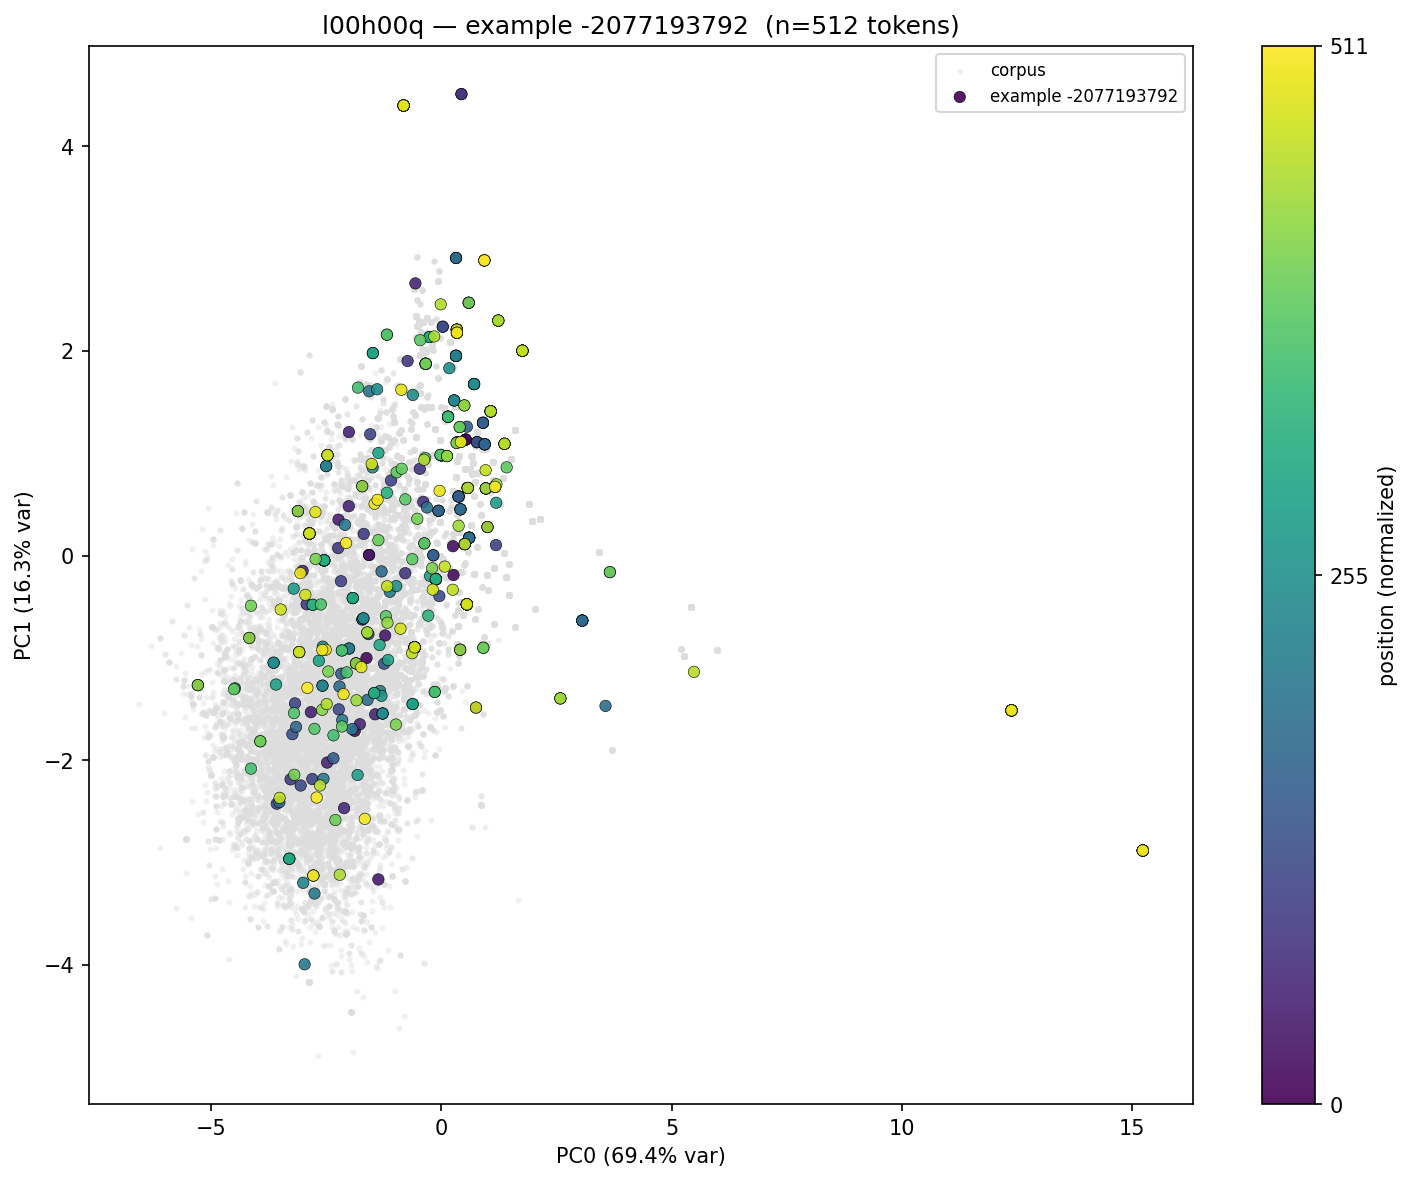
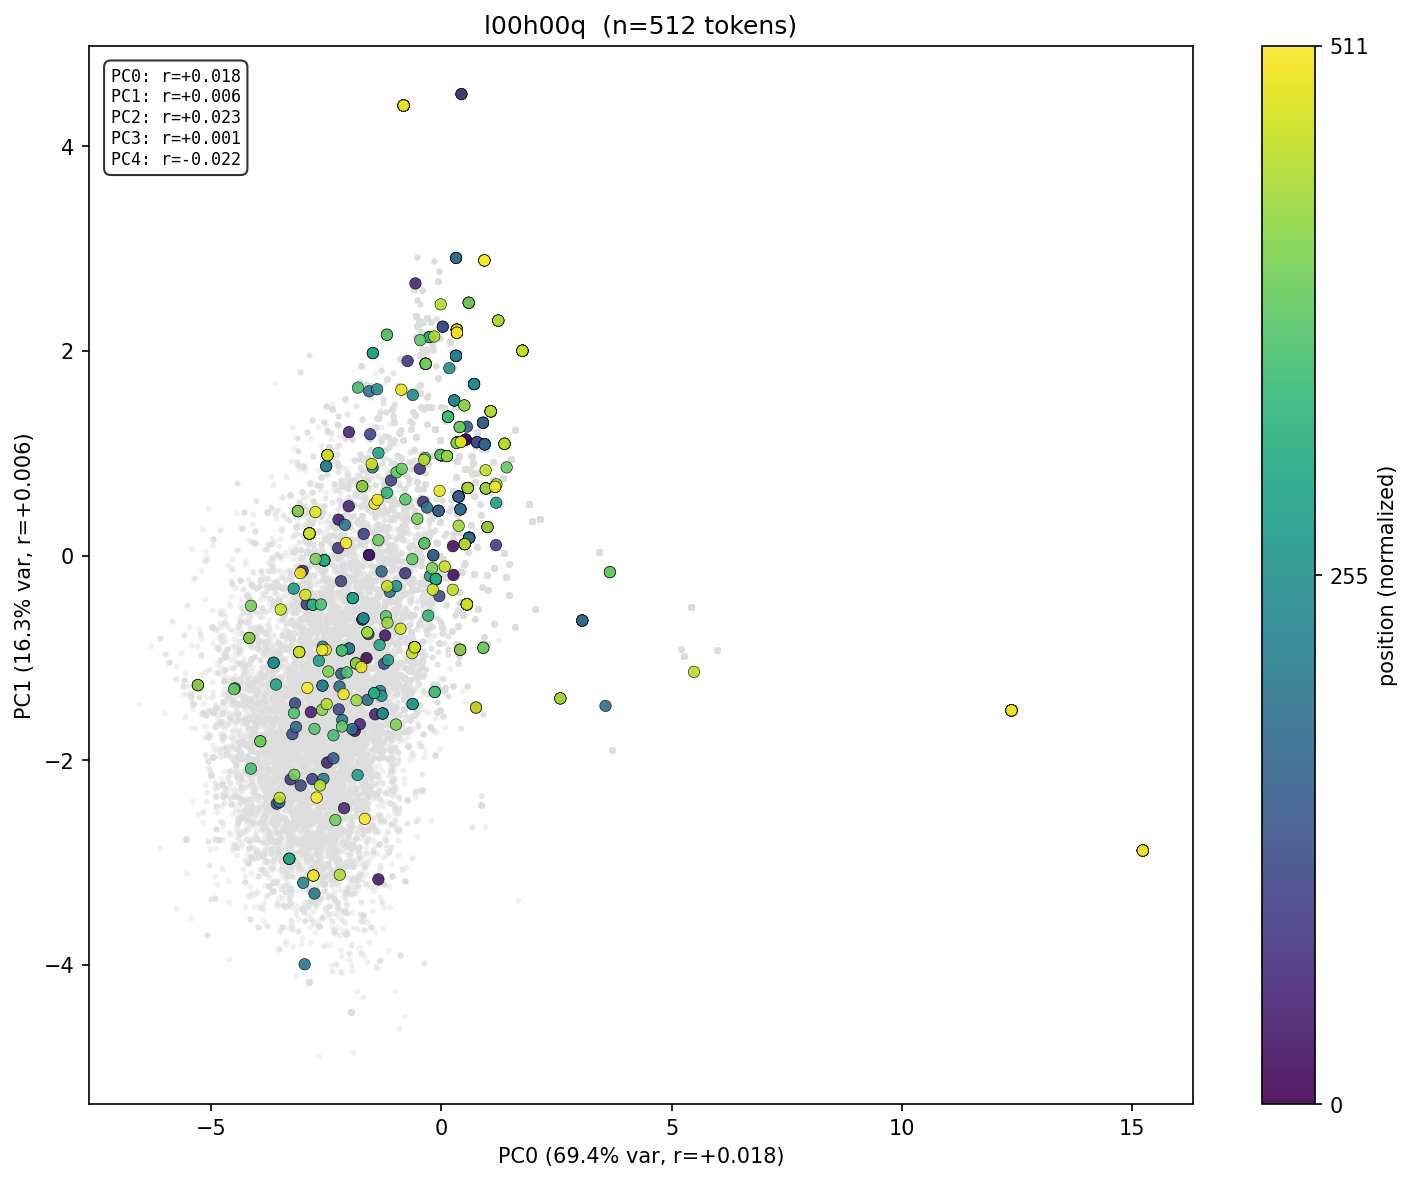
Clean up figures: remove legend and example_id from titles
Also fix qk-sniffer link in README.

diff --git a/qk_pca/visualization.py b/qk_pca/visualization.py
@@ -107,7 +107,7 @@ def scatter_with_position(
         c="#dddddd",
         alpha=0.3,
         rasterized=True,
-        label="corpus",
+        label="_nolegend_",
     )
 
     # Foreground: highlighted sequence with viridis colormap
@@ -120,7 +120,7 @@ def scatter_with_position(
         alpha=0.9,
         edgecolors="black",
         linewidths=0.3,
-        label=f"example {example_id}",
+        label="_nolegend_",
         zorder=5,
     )
 
@@ -132,7 +132,7 @@ def scatter_with_position(
 
     ax.set_xlabel(f"PC{pc_x} ({evr_x:.1%} var, r={r_x:+.3f})")
     ax.set_ylabel(f"PC{pc_y} ({evr_y:.1%} var, r={r_y:+.3f})")
-    ax.set_title(f"{target} — example {example_id}  (n={len(proj_seq)} tokens)")
+    ax.set_title(f"{target}  (n={len(proj_seq)} tokens)")
 
     # Correlation summary box
     corr_text = "\n".join(
@@ -145,8 +145,6 @@ def scatter_with_position(
         fontfamily="monospace",
         bbox=dict(boxstyle="round,pad=0.4", facecolor="white", alpha=0.8),
     )
-
-    ax.legend(loc="upper right", fontsize=8)
 
     fig.tight_layout()
     fig.savefig(output, dpi=dpi, bbox_inches="tight")

diff --git a/README.md b/README.md
@@ -1,6 +1,6 @@
 # qk-pca-analysis
 
-PCA analysis of Q/K attention vectors captured by [qk-sniffer](https://github.com/viktoroo/qk-sniffer). Discovers correlations between high-variance PCA directions and token positions in LLM attention heads.
+PCA analysis of Q/K attention vectors captured by [qk-sniffer](https://github.com/viktor-shcherb/qk-sniffer). Discovers correlations between high-variance PCA directions and token positions in LLM attention heads.
 
 ## Setup
 
